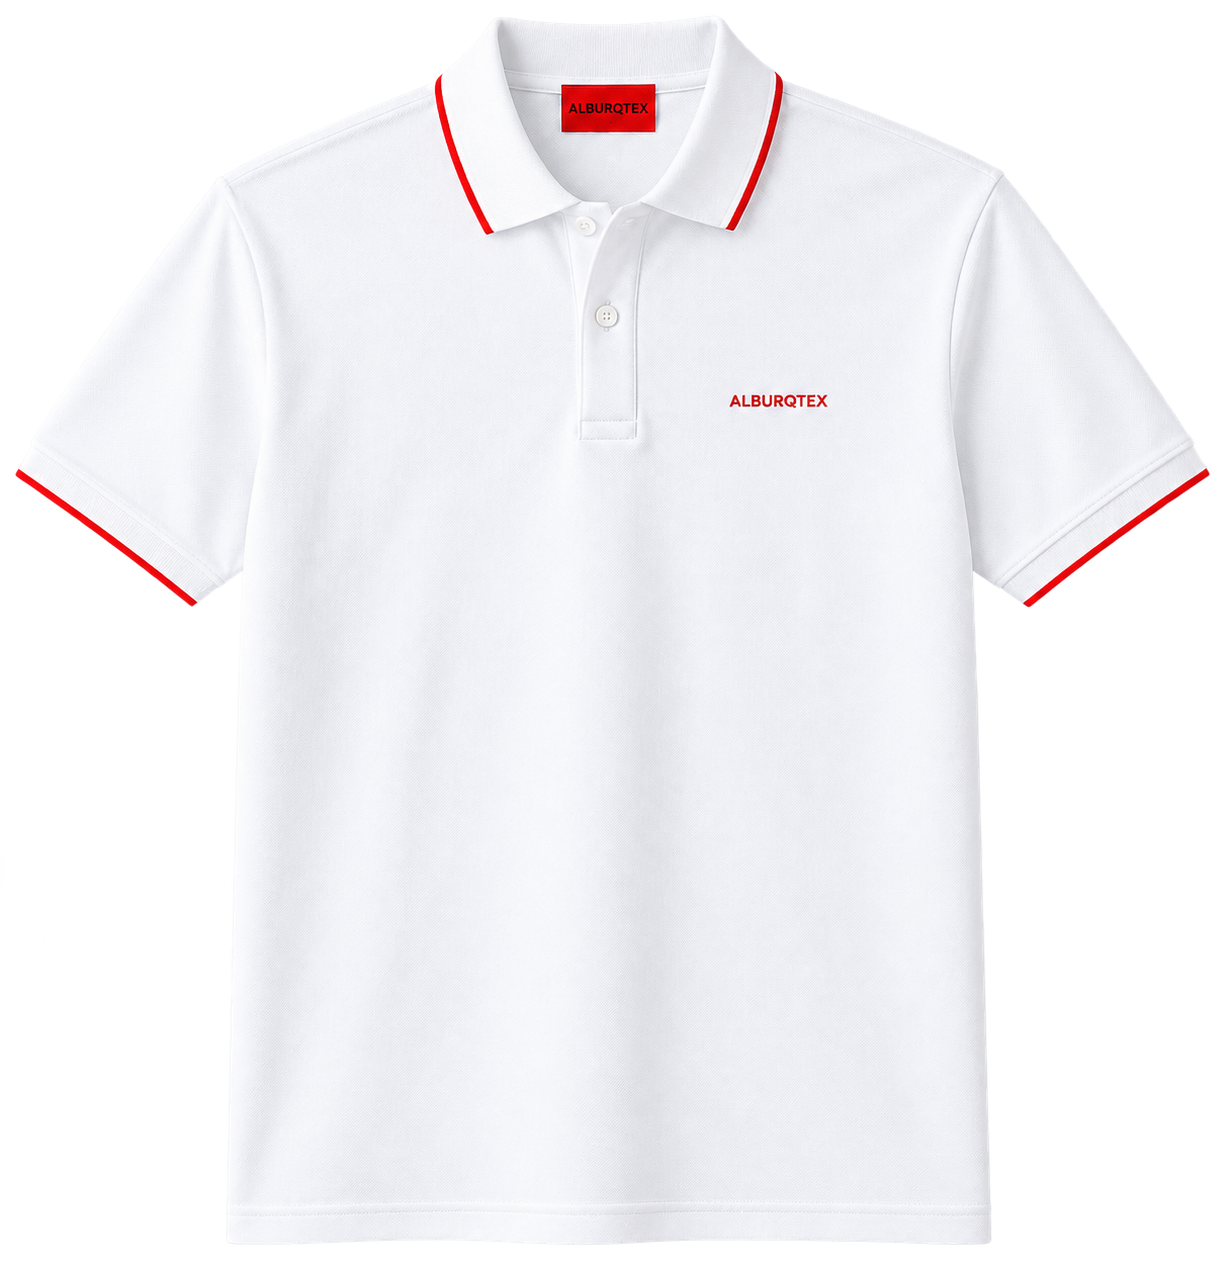
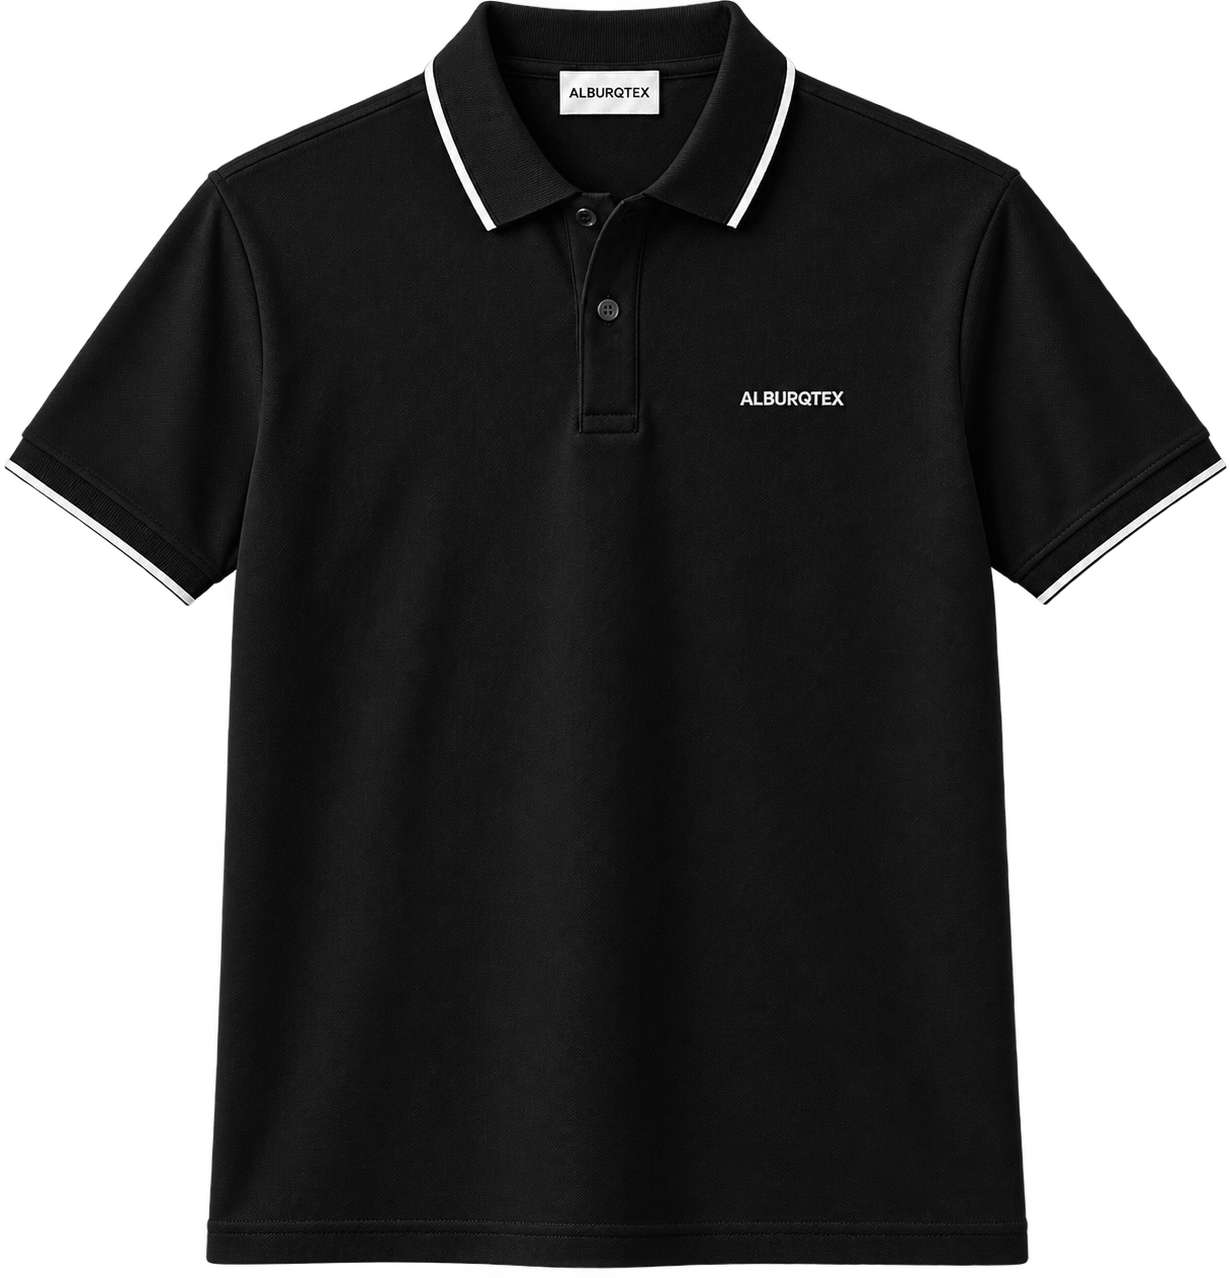
fix: make polo black with visible embroidery

diff --git a/src/data/products.ts b/src/data/products.ts
@@ -32,7 +32,7 @@ export const PRODUCTS: ShowcaseProduct[] = [
     material: 'Piqué 100% algodón',
     sizes: 'S — M — L — XL — XXL',
     price: 15,
-    tagline: 'Polo blanca premium con etiqueta Alburqtex, ribetes rojos y bordado pequeño en el pecho.',
+    tagline: 'Polo negra premium con etiqueta Alburqtex, ribetes blancos y bordado de hilo visible en el pecho.',
     ghostWord: 'BORDADO',
     src: poloBordado,
     bg: '#F4845F',
